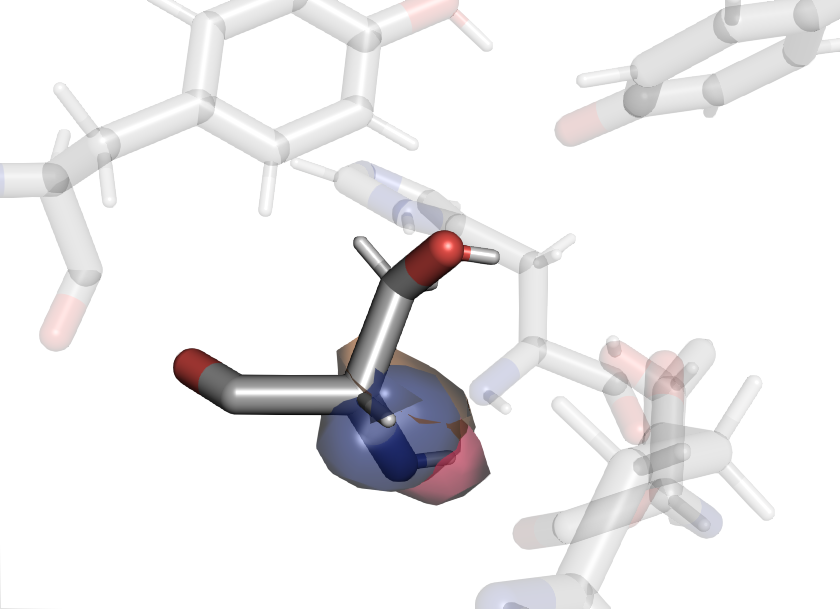
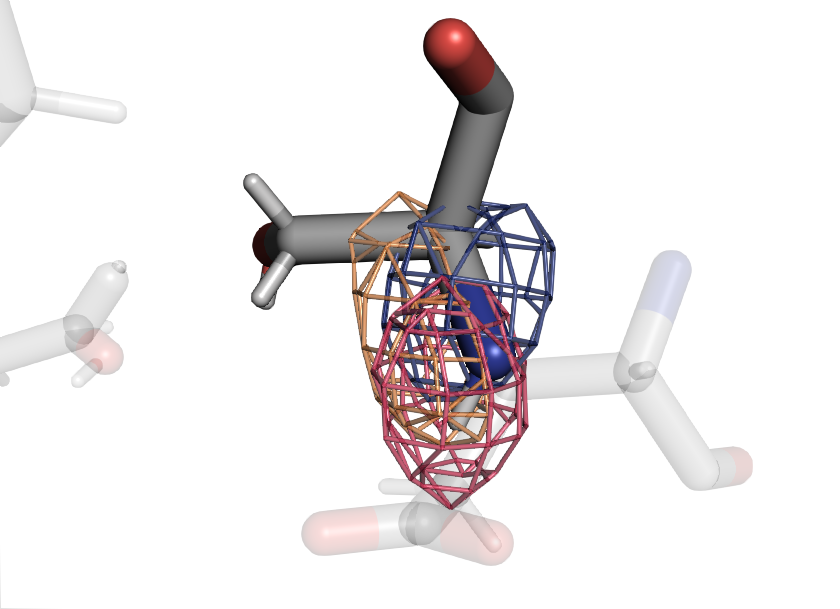
Update g003 figures

diff --git a/study/figures/g-sdf/g003-sdf-n-individual/g003.py b/study/figures/g-sdf/g003-sdf-n-individual/g003.py
@@ -6,8 +6,6 @@ from pymol import cmd, util
 
 # https://pymol.org/dokuwiki/doku.php?id=api:cmd:alpha
 
-ISO_VALUE = 0.09
-
 
 def move_object(mobile_object: str, x: Mapping[float]) -> None:
     """Move PyMOL object's display matrix. Transformations are made in PyMOLs internal
@@ -89,6 +87,15 @@ map_data = {
     },
 }
 
+iso_levels = {
+    "cro": 0.09,
+    "tyr143": 0.09,
+    "his146": 0.09,
+    "thr201": 0.09,
+    "ser203": 0.09,
+    "glu220": 0.09,
+}
+
 
 # Load alignment transformations
 trans_data = {
@@ -108,12 +115,12 @@ for sys_label, map_info in map_data.items():
         cmd.group(name="maps", members=map_label, action="add")
 
         iso_label = map_label + "_iso"
-        cmd.isosurface(name=iso_label, map=map_label)
-        cmd.isolevel(iso_label, ISO_VALUE)
+        cmd.isomesh(name=iso_label, map=map_label)
+        cmd.isolevel(iso_label, iso_levels[res_label])
         cmd.group(name=f"{res_label}_iso", members=iso_label, action="add")
 
         cmd.color(f"{sys_label}_color", iso_label)
-        cmd.set("transparency", 0.3, iso_label)
+        cmd.set("transparency", 0.2, iso_label)
 
 
 # Disable other objects
@@ -127,6 +134,7 @@ cmd.color("grey70", "element C")
 # Figure settings
 util.performance(0)
 cmd.space("cmyk")
+cmd.set("mesh_width", 1.5)
 cmd.set("ray_trace_fog", 0)
 cmd.set("depth_cue", 0)
 cmd.set("antialias", 4)
@@ -155,12 +163,12 @@ cmd.set("stick_transparency", TRANSPARENCY_VALUE, "resi 220")
 cmd.set_view(
     """
 (\
-    -0.841515303,   -0.538535833,   -0.042716075,\
-    -0.519398630,    0.828276694,   -0.210098386,\
-     0.148536488,   -0.154625833,   -0.976732075,\
-     0.001062250,   -0.001245134,  -28.732223511,\
-    32.638053894,   34.972019196,   38.733093262,\
-  -149.667205811,  207.347778320,  -20.000000000 )
+    -0.713077724,   -0.701010048,    0.010032250,\
+    -0.626331806,    0.643409133,    0.440112710,\
+    -0.314971328,    0.307547778,   -0.897879541,\
+     0.001500354,   -0.001301490,  -15.251414299,\
+    30.964843750,   33.253074646,   38.581691742,\
+  -163.248641968,  193.766342163,  -20.000000000 )
 """
 )
 cmd.png("cro-n.png", dpi=1000)
@@ -180,12 +188,12 @@ cmd.set("stick_transparency", TRANSPARENCY_VALUE, "resi 220")
 cmd.set_view(
     """
 (\
-    -0.699214101,   -0.229481816,   -0.677073538,\
-     0.107669927,    0.902456880,   -0.417058796,\
-     0.706748486,   -0.364527941,   -0.606302917,\
-    -0.000772315,   -0.001222866,  -22.819011688,\
-    38.325408936,   39.157699585,   33.325714111,\
-  -155.361190796,  201.653793335,  -20.000000000 )
+    -0.775559962,   -0.575533450,    0.259353071,\
+    -0.586101055,    0.809085667,    0.042806949,\
+    -0.234468073,   -0.118816726,   -0.964825809,\
+     0.000000000,    0.000000000,  -15.039458275,\
+    41.667057037,   39.947574615,   29.875352859,\
+  -163.468048096,  193.546936035,  -20.000000000 )
 """
 )
 cmd.png("tyr145-n.png", dpi=1000)
@@ -205,12 +213,12 @@ cmd.set("stick_transparency", TRANSPARENCY_VALUE, "resi 220")
 cmd.set_view(
     """
 (\
-     0.574742734,   -0.673360229,    0.465024173,\
-     0.108903490,    0.626136899,    0.772043109,\
-    -0.811044395,   -0.393093526,    0.433194339,\
-     0.000702321,   -0.000347649,  -27.929138184,\
-    39.389068604,   38.298980713,   40.739974976,\
-  -150.604400635,  206.410583496,  -20.000000000 )
+     0.338627607,    0.308200926,   -0.889008164,\
+     0.090006888,    0.929875195,    0.356649607,\
+     0.936592400,   -0.200803891,    0.287140876,\
+    -0.001674286,   -0.001392300,  -22.638912201,\
+    39.828647614,   41.086414337,   36.963531494,\
+  -155.992446899,  201.022537231,  -20.000000000 )
 """
 )
 cmd.png("his148-n.png", dpi=1000)
@@ -231,12 +239,12 @@ cmd.set("stick_transparency", TRANSPARENCY_VALUE, "resi 220")
 cmd.set_view(
     """
 (\
-    -0.358965665,   -0.570977032,    0.738322377,\
-    -0.634493172,    0.729414344,    0.255595744,\
-    -0.684483767,   -0.376721680,   -0.624129891,\
-     0.002785400,   -0.000746295,  -25.533874512,\
-    38.447463989,   35.923187256,   39.743259430,\
-  -152.961395264,  204.053588867,  -20.000000000 )
+     0.858347416,    0.171213508,   -0.483652413,\
+    -0.046125349,    0.964596391,    0.259603322,\
+     0.510979593,   -0.200536281,    0.835861146,\
+    -0.000913270,   -0.001376533,  -17.563423157,\
+    40.380111694,   35.601814270,   41.503143311,\
+  -160.975646973,  196.039337158,  -20.000000000 )
 """
 )
 cmd.png("thr203-n.png", dpi=1000)
@@ -256,12 +264,12 @@ cmd.set("stick_transparency", TRANSPARENCY_VALUE, "resi 220")
 cmd.set_view(
     """
 (\
-    -0.469252765,   -0.827867150,   -0.307288110,\
-    -0.347087085,    0.492887676,   -0.797838151,\
-     0.811979473,   -0.267739385,   -0.518630445,\
-     0.000395618,    0.000453047,  -21.777130127,\
-    39.106773376,   34.605056763,   34.570110321,\
-  -156.521820068,  200.493164062,  -20.000000000 )
+     0.755386353,   -0.059837028,    0.652534127,\
+    -0.642282307,    0.129595384,    0.755410016,\
+    -0.129761919,   -0.989751458,    0.059450448,\
+     0.000751109,    0.001053762,  -16.790933609,\
+    40.718509674,   34.968013763,   35.085838318,\
+  -161.790435791,  195.224578857,  -20.000000000 )
 """
 )
 cmd.png("ser205-n.png", dpi=1000)
@@ -281,12 +289,12 @@ cmd.set("stick_transparency", 0.0, "resi 220")
 cmd.set_view(
     """
 (\
-     0.394451320,   -0.690276980,   -0.606560528,\
-     0.803602815,    0.579240561,   -0.136586130,\
-     0.445624709,   -0.433566839,    0.783204556,\
-    -0.002626797,   -0.000129406,  -33.662319183,\
-    41.208389282,   33.075607300,   34.572891235,\
-  -144.639602661,  212.375381470,  -20.000000000 )
+     0.086835407,   -0.498051465,    0.862782896,\
+    -0.941057384,    0.243140176,    0.235075340,\
+    -0.326848060,   -0.832350969,   -0.447593719,\
+     0.000049660,    0.000069670,  -18.572540283,\
+    39.984493256,   30.044538498,   33.884197235,\
+  -159.939743042,  197.075271606,  -20.000000000 )
 """
 )
 cmd.png("glu222-n.png", dpi=1000)
